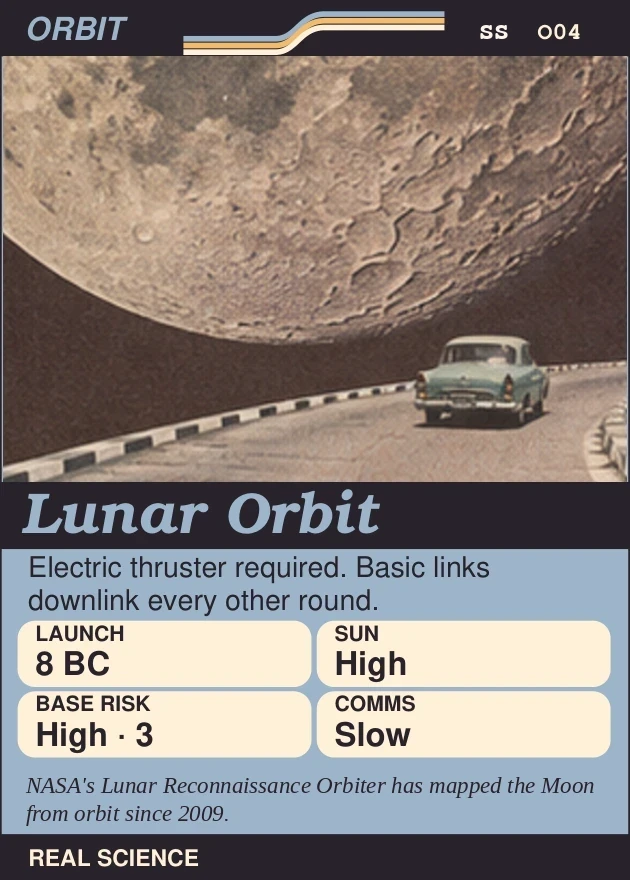
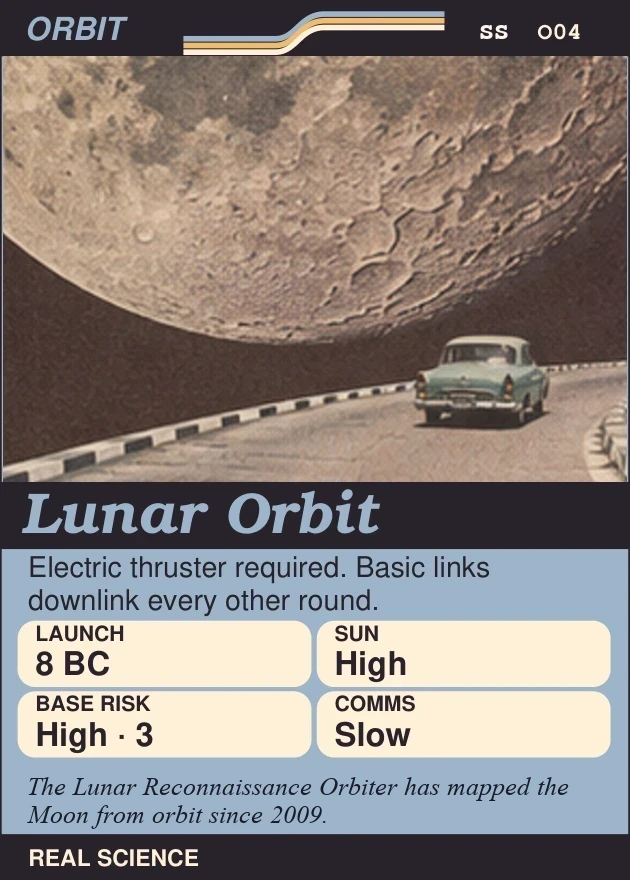
Remove NASA branding from the game
No logos or insignia were found in any of the 103 card images (checked by
on-device OCR and by eye, including the rockets and spacecraft). The game
text named NASA in four places; reworded:
- Lunar Orbit card: 'The Lunar Reconnaissance Orbiter has mapped the Moon
  from orbit since 2009.' (card data and printed card art)
- co-op Class A rule in the in-game rules, RULES.md and an engine comment
- a v1 changelog line about the old grant event name
Source links to NASA web pages stay: they are citations, not branding.

Changed region(s): [[0.0302, 0.8591, 0.9349, 0.9511]]

diff --git a/index.html b/index.html
@@ -902,7 +902,7 @@ function showRules() {
       <li><b>Launch insurance:</b> when you launch, you can pay 10% of the satellite's value (parts + launch). If it is lost at the launch check, you get half its value back. Worth it when the fail chance is above 20%.</li>
       <li><b>Trade</b> (free, on your turn): swap BC and one installed part with another agency, if they agree and both satellites still fit.</li>
       <li><b>End of the game:</b> if round ${LW.ROUNDS} ends with nobody at the target, satellites still in orbit publish partial science: the same share of their SP as the share of Data already home.</li>
-      <li><b>Co-op:</b> all agencies build the Flagship Observatory at L2 together. Each agency buys only its own subsystems. The team shares a budget of ${LW.COOP_BUDGET} BC + ${LW.COOP_FUNDING} BC per round, split between agencies. Like NASA Class A missions, the Flagship must reach Risk 1. Finish before round ${LW.ROUNDS} ends and everyone wins.</li></ol>
+      <li><b>Co-op:</b> all agencies build the Flagship Observatory at L2 together. Each agency buys only its own subsystems. The team shares a budget of ${LW.COOP_BUDGET} BC + ${LW.COOP_FUNDING} BC per round, split between agencies. Like real flagship missions, it is built to the highest reliability class ("Class A"), so it must reach Risk 1. Finish before round ${LW.ROUNDS} ends and everyone wins.</li></ol>
       <p>Every card's <i>Real Science</i> line links to its source. Click any card to read it.</p>`,
     foot: `<button class="btn go" id="rok">Back to the console</button>` });
   $('#rok').onclick = closeModal;

diff --git a/engine.js b/engine.js
@@ -194,7 +194,7 @@
     var ant = bestAntenna(parts);
     items.push({ ok: needHga ? ant === 'hga' : !!ant, text: needHga ? 'High-gain antenna (required here)' : 'An antenna' });
     if (o && o.rules.requires.indexOf('electric') >= 0) items.push({ ok: hasKey(parts, 'electric'), text: 'Electric thruster (required here)' });
-    // Flagships are NASA Class A missions: the highest reliability standard, with backups for everything.
+    // Flagship missions are built to the highest reliability class ("Class A"), with backups for everything.
     if (missionId === COOP_MISSION) items.push({ ok: riskOf(parts, orbit, false).risk <= 1, text: 'Flagship standard (Class A): Risk must be 1. Add backups.' });
     if (hasKey(parts, 'magnetorquers') && o) items.push({ ok: orbit === 'leo' || orbit === 'sso', text: 'Magnetorquers only work in LEO or SSO' });
     return { ok: items.every(function (i) { return i.ok; }), items: items, stats: st };

diff --git a/RULES.md b/RULES.md
@@ -131,7 +131,7 @@ Then the Mission Lead passes clockwise and a new round starts.
 - **Co-op (2–4 agencies):** everyone builds one Flagship Observatory at L2 (6 Data, 20 SP). Finish it before round 6 ends and every agency wins.
   - **Subsystems.** Each agency owns some subsystems and may only buy those parts: Payload & pointing (instruments, reaction wheels, magnetorquers), Communications (antennas and radios), Propulsion (thrusters), Power & structure (frames, solar, battery, shielding, backup computer). With 2 agencies each owns two; with 3, one agency owns two.
   - **One budget.** The team starts with 24 BC and gets 7 BC per round, split as evenly as possible between agencies. Use Trade to pass BC to whoever needs it.
-  - **Class A.** Flagships are NASA Class A missions, built to the highest reliability standard: the Flagship's Risk must be 1 to pass the Design Review.
+  - **Class A.** Real flagship missions are built to the highest reliability class, called Class A: the Flagship's Risk must be 1 to pass the Design Review.
   - The agency that owns Power & structure is the first Mission Lead, so the frame goes in first. Any agency may launch the Flagship. If it is lost, the team builds a new one.
 - **Solo:** play alone against the Event deck. Try to reach 10 SP in 6 rounds.
 
@@ -180,6 +180,6 @@ Measured with `sim.js` (1,500 bot games per setting). Bots now reach 10 SP in 20
 - Trade Study can peek at the next Event (the exact launch chance is now always shown).
 - Mars needs an electric thruster and high-gain antenna.
 - Removed "First to complete" missions (each mission card belongs to one player).
-- "NASA Grant" is now "Research Grant", matching the card.
+- The grant event's name now matches its card: Research Grant.
 - Magnetorquers work in LEO and SSO.
 - Corrected Real Science lines on Polar Field Survey, Equatorial Field Map, Particle Patrol, Lunar Orbit and Mars Transfer.
